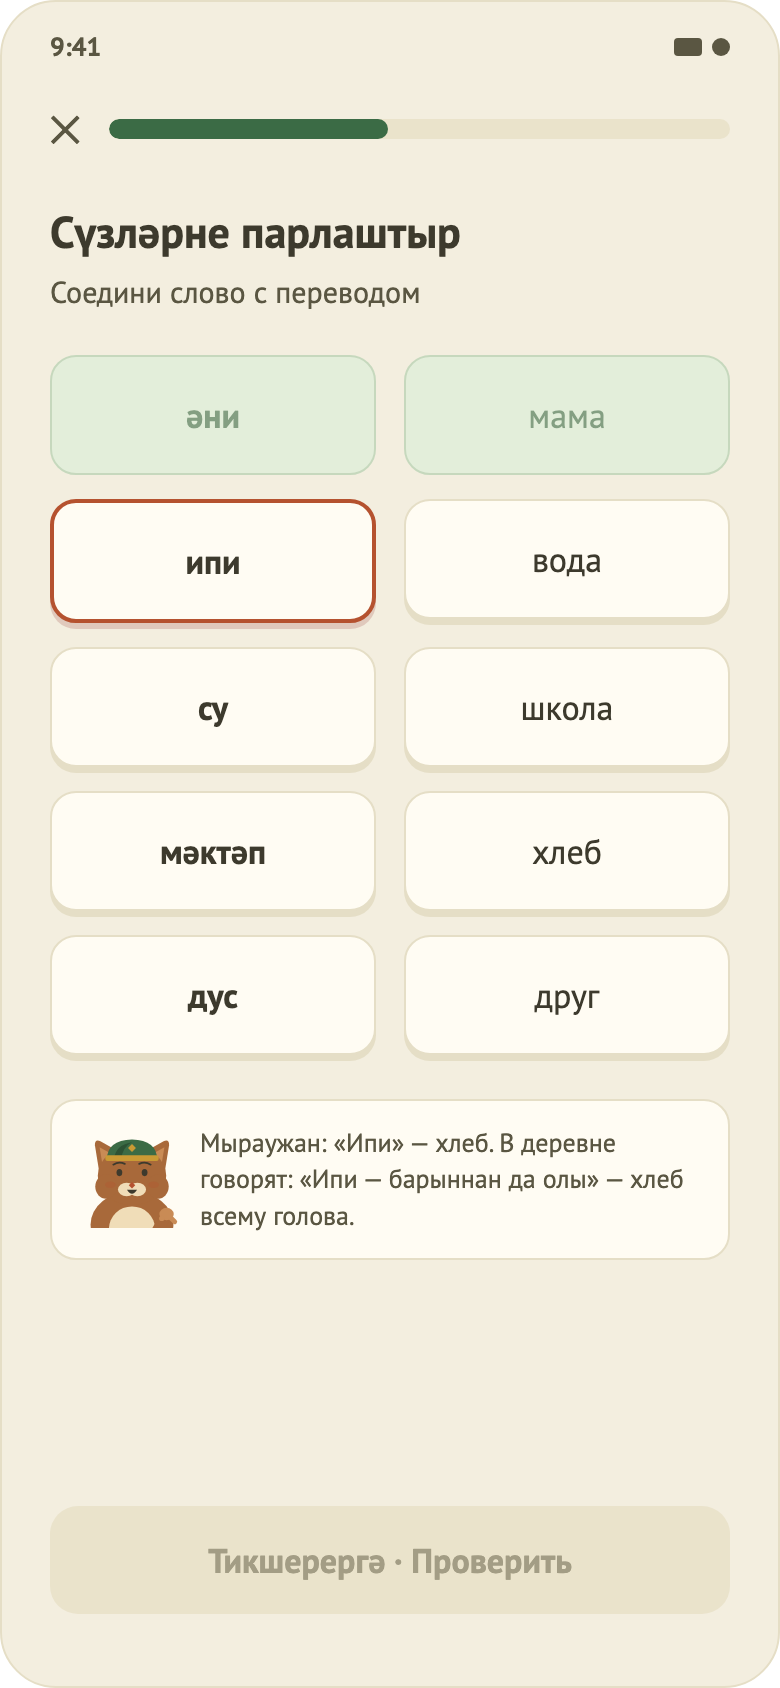
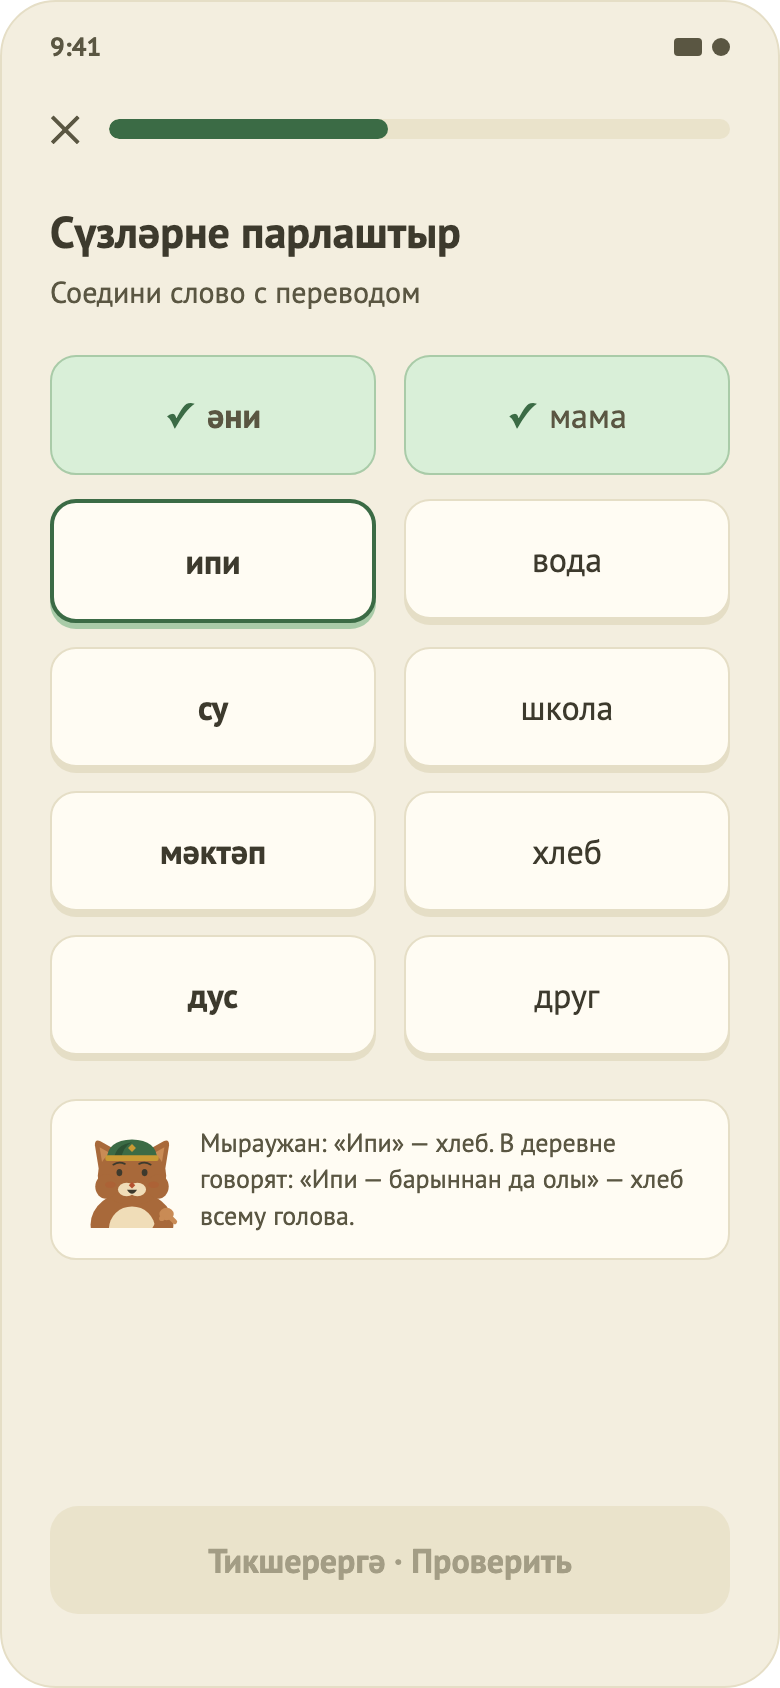
Separate selection from error: green selected state, matched tiles with check mark

Changed region(s): [[0.0615, 0.2156, 0.4615, 0.3697], [0.6769, 0.2464, 0.8, 0.2773], [0.4308, 0.3081, 0.4923, 0.3697]]

diff --git a/shared/src/commonMain/kotlin/ru/tatarcha/tatlearn/core/designsystem/component/exercise/AnswerOption.kt b/shared/src/commonMain/kotlin/ru/tatarcha/tatlearn/core/designsystem/component/exercise/AnswerOption.kt
@@ -14,34 +14,36 @@ import androidx.compose.material3.Text
 import androidx.compose.runtime.Composable
 import androidx.compose.ui.Alignment
 import androidx.compose.ui.Modifier
-import androidx.compose.ui.draw.alpha
 import androidx.compose.ui.draw.clip
 import androidx.compose.ui.semantics.Role
 import androidx.compose.ui.unit.Dp
 import androidx.compose.ui.unit.dp
+import org.jetbrains.compose.resources.stringResource
 import ru.tatarcha.tatlearn.core.designsystem.component.solidShadow
 import ru.tatarcha.tatlearn.core.designsystem.theme.TamyrSizes
 import ru.tatarcha.tatlearn.core.designsystem.theme.TamyrTheme
+import tatlearn.shared.generated.resources.Res
+import tatlearn.shared.generated.resources.answer_mark_matched
+import tatlearn.shared.generated.resources.answer_mark_wrong
 
 enum class AnswerOptionState {
     Neutral,
 
-    /** Выбран, ещё не проверен. */
+    /** Выбран, ещё не проверен: рамка primary на белом (терракота зарезервирована за ошибкой). */
     Selected,
 
     /** Проверен и верный. */
     Correct,
 
-    /** Проверен и неверный. TODO(design): нет в макете; терракотовый вариант Correct. */
+    /** Проверен и неверный: терракотовая рамка и значок ✕, чтобы ошибка читалась не только цветом. TODO(design): нет в макете. */
     Wrong,
 
-    /** Готовая пара в сопоставлении: приглушённый зелёный. */
+    /** Готовая пара в сопоставлении: светло-зелёная плитка с галочкой, текст на полном контрасте. */
     Matched,
 }
 
 private val BadgeSize = 22.dp
 private val DefaultHeight = 56.dp
-private const val MATCHED_ALPHA = 0.6f
 
 /** Выбираемая строка/плитка ответа в квизе, аудировании и сопоставлении. */
 @Composable
@@ -64,8 +66,8 @@ fun AnswerOption(
         else -> colors.surface
     }
     val borderColor = when (state) {
-        AnswerOptionState.Selected, AnswerOptionState.Wrong -> colors.accent
-        AnswerOptionState.Correct -> colors.primary
+        AnswerOptionState.Wrong -> colors.accent
+        AnswerOptionState.Selected, AnswerOptionState.Correct -> colors.primary
         AnswerOptionState.Matched -> colors.successBorder
         AnswerOptionState.Neutral -> colors.border
     }
@@ -75,12 +77,13 @@ fun AnswerOption(
     }
     val shadow = when (state) {
         AnswerOptionState.Neutral -> colors.border
-        AnswerOptionState.Selected, AnswerOptionState.Wrong -> colors.accentSoftShadow
-        AnswerOptionState.Correct -> colors.successBorder
+        AnswerOptionState.Wrong -> colors.accentSoftShadow
+        AnswerOptionState.Selected, AnswerOptionState.Correct -> colors.successBorder
         AnswerOptionState.Matched -> null
     }
     val textColor = when (state) {
-        AnswerOptionState.Correct, AnswerOptionState.Matched -> colors.primary
+        AnswerOptionState.Correct -> colors.primary
+        AnswerOptionState.Matched -> colors.textSecondary
         else -> colors.textPrimary
     }
     val strong = bold || state == AnswerOptionState.Correct || state == AnswerOptionState.Selected
@@ -88,7 +91,6 @@ fun AnswerOption(
     Row(
         modifier
             .fillMaxWidth()
-            .then(if (state == AnswerOptionState.Matched) Modifier.alpha(MATCHED_ALPHA) else Modifier)
             .then(if (shadow != null) Modifier.solidShadow(shadow, TamyrSizes.buttonShadow, shape) else Modifier)
             .height(height)
             .clip(shape)
@@ -99,26 +101,49 @@ fun AnswerOption(
         horizontalArrangement = if (centered) Arrangement.Center else Arrangement.SpaceBetween,
         verticalAlignment = Alignment.CenterVertically,
     ) {
-        Text(
-            text,
-            style = if (strong) TamyrTheme.typography.body17Bold else TamyrTheme.typography.body17,
-            color = textColor,
-        )
+        Row(
+            horizontalArrangement = Arrangement.spacedBy(TamyrTheme.spacing.s),
+            verticalAlignment = Alignment.CenterVertically,
+        ) {
+            if (state == AnswerOptionState.Matched) {
+                Text(
+                    text = stringResource(Res.string.answer_mark_matched),
+                    style = TamyrTheme.typography.body17Bold,
+                    color = colors.primary,
+                )
+            }
+            if (state == AnswerOptionState.Wrong && badge == null) {
+                Text(
+                    text = stringResource(Res.string.answer_mark_wrong),
+                    style = TamyrTheme.typography.body17Bold,
+                    color = colors.accentText,
+                )
+            }
+            Text(
+                text = text,
+                style = if (strong) TamyrTheme.typography.body17Bold else TamyrTheme.typography.body17,
+                color = textColor,
+            )
+        }
         if (badge != null) {
-            val correct = state == AnswerOptionState.Correct
+            val filled = state == AnswerOptionState.Correct || state == AnswerOptionState.Wrong
             Box(
                 Modifier
                     .size(BadgeSize)
                     .clip(TamyrTheme.shapes.circle)
                     .then(
-                        if (correct) Modifier.background(colors.primary) else Modifier.border(TamyrSizes.borderThin, colors.border, TamyrTheme.shapes.circle),
+                        when (state) {
+                            AnswerOptionState.Correct -> Modifier.background(colors.primary)
+                            AnswerOptionState.Wrong -> Modifier.background(colors.accent)
+                            else -> Modifier.border(TamyrSizes.borderThin, colors.border, TamyrTheme.shapes.circle)
+                        },
                     ),
                 contentAlignment = Alignment.Center,
             ) {
                 Text(
-                    badge,
+                    text = if (state == AnswerOptionState.Wrong) stringResource(Res.string.answer_mark_wrong) else badge,
                     style = TamyrTheme.typography.caption13,
-                    color = if (correct) colors.onPrimary else colors.textSecondary,
+                    color = if (filled) colors.onPrimary else colors.textSecondary,
                 )
             }
         }

diff --git a/design/Tatar App Screens.dc.html b/design/Tatar App Screens.dc.html
@@ -123,7 +123,7 @@
         </div>
         <div style="padding:20px 24px;display:flex;flex-direction:column;gap:12px">
           <div style="height:56px;border-radius:13px;background:#FFFCF3;border:1px solid #E5DEC6;display:flex;align-items:center;padding:0 18px;font-size:17px;font-weight:700;box-shadow:0 3px 0 #E5DEC6">Рәхмәт</div>
-          <div style="height:56px;border-radius:13px;background:#FFFCF3;border:2px solid #B5522F;display:flex;align-items:center;padding:0 18px;font-size:17px;font-weight:700;box-shadow:0 3px 0 #E0C9BC">Рәхим ит</div>
+          <div style="height:56px;border-radius:13px;background:#FFFCF3;border:2px solid #3B6B45;display:flex;align-items:center;padding:0 18px;font-size:17px;font-weight:700;box-shadow:0 3px 0 #A9CBA8">Рәхим ит</div>
           <div style="height:56px;border-radius:13px;background:#FFFCF3;border:1px solid #E5DEC6;display:flex;align-items:center;padding:0 18px;font-size:17px;font-weight:700;box-shadow:0 3px 0 #E5DEC6">Исәнме</div>
         </div>
         <div style="margin-top:auto;padding:0 24px 36px">
@@ -441,9 +441,9 @@
           <div style="font-size:15px;color:#5A5642">Соедини слово с переводом</div>
         </div>
         <div style="padding:22px 24px;display:grid;grid-template-columns:1fr 1fr;gap:12px 14px">
-          <div style="height:58px;border-radius:13px;background:#D9EFD8;border:1px solid #A9CBA8;display:flex;align-items:center;justify-content:center;font-size:17px;font-weight:700;color:#3B6B45;opacity:.6">әни</div>
-          <div style="height:58px;border-radius:13px;background:#D9EFD8;border:1px solid #A9CBA8;display:flex;align-items:center;justify-content:center;font-size:17px;color:#3B6B45;opacity:.6">мама</div>
-          <div style="height:58px;border-radius:13px;background:#FFFCF3;border:2px solid #B5522F;display:flex;align-items:center;justify-content:center;font-size:17px;font-weight:700;box-shadow:0 3px 0 #E0C9BC">ипи</div>
+          <div style="height:58px;border-radius:13px;background:#D9EFD8;border:1px solid #A9CBA8;display:flex;align-items:center;justify-content:center;font-size:17px;font-weight:700;color:#5A5642"><span style="color:#3B6B45;margin-right:8px">✓</span>әни</div>
+          <div style="height:58px;border-radius:13px;background:#D9EFD8;border:1px solid #A9CBA8;display:flex;align-items:center;justify-content:center;font-size:17px;color:#5A5642"><span style="color:#3B6B45;font-weight:700;margin-right:8px">✓</span>мама</div>
+          <div style="height:58px;border-radius:13px;background:#FFFCF3;border:2px solid #3B6B45;display:flex;align-items:center;justify-content:center;font-size:17px;font-weight:700;box-shadow:0 3px 0 #A9CBA8">ипи</div>
           <div style="height:58px;border-radius:13px;background:#FFFCF3;border:1px solid #E5DEC6;display:flex;align-items:center;justify-content:center;font-size:17px;box-shadow:0 3px 0 #E5DEC6">вода</div>
           <div style="height:58px;border-radius:13px;background:#FFFCF3;border:1px solid #E5DEC6;display:flex;align-items:center;justify-content:center;font-size:17px;font-weight:700;box-shadow:0 3px 0 #E5DEC6">су</div>
           <div style="height:58px;border-radius:13px;background:#FFFCF3;border:1px solid #E5DEC6;display:flex;align-items:center;justify-content:center;font-size:17px;box-shadow:0 3px 0 #E5DEC6">школа</div>

diff --git a/.docs/tech/04-lesson-matching.md b/.docs/tech/04-lesson-matching.md
@@ -55,8 +55,8 @@
 ## Функционал (как работает сейчас)
 | Функция | Поведение |
 |---|---|
-| Выбор слова слева | Тап выделяет слово (`Selected`); повторный тап снимает выделение. Уже сопоставленные и во время вспышки ошибки не нажимаются. |
-| Выбор перевода справа | Работает только если слово слева выбрано. Верная пара → обе плитки `Matched` (приглушённо-зелёные), выделение снимается. Неверная → плитки на 700 мс подсвечиваются красным, счётчик ошибок шага +1. |
+| Выбор слова слева | Тап выделяет слово (`Selected`: рамка и тень primary на белом, не терракотовая); повторный тап снимает выделение. Уже сопоставленные и во время вспышки ошибки не нажимаются. |
+| Выбор перевода справа | Работает только если слово слева выбрано. Верная пара → обе плитки `Matched` (светло-зелёные с галочкой ✓, без прозрачности), выделение снимается. Неверная → плитки на 700 мс подсвечиваются красным, счётчик ошибок шага +1. |
 | Завершение шага | Когда сопоставлены все пары: шаг сразу засчитывается и открывается панель «Верно». Шаг считается верным (+XP) только если за него **не было ни одной ошибки**; иначе шаг попадает в «ошибки», XP 0. |
 | Подсказка маскота | При выбранном татарском слове, для которого есть `notes[слово]`, появляется карточка (в данных: «ипи» — «Ипи — барыннан да олы…»). Картинки маскота нет (`TODO(design)`). |
 | Порядок справа | Детерминированный shuffle от содержимого пар (не меняется при перерисовке и пересоздании процесса); гарантированно не совпадает с левой колонкой. |

diff --git a/.docs/04-lesson-matching.md b/.docs/04-lesson-matching.md
@@ -50,9 +50,9 @@
 Заголовок «Сүзләрне парлаштыр», подпись «Соедини слово с переводом». Две колонки по 5 плиток: слева татарские слова, справа переводы в перемешанном порядке (порядок всегда одинаков и не совпадает с левым). Под плитками — подсказка маскота, если она есть для выбранного слова.
 
 ## Поведение
-- **Выбор слова слева:** плитка выделяется; повторное нажатие снимает выделение. Уже сопоставленные плитки недоступны.
+- **Выбор слова слева:** плитка выделяется зелёной рамкой (терракота зарезервирована за ошибкой); повторное нажатие снимает выделение. Уже сопоставленные плитки недоступны.
 - **Выбор перевода справа:** работает, только если слово слева выбрано.
-  - Верная пара — обе плитки становятся приглушённо-зелёными.
+  - Верная пара — обе плитки становятся светло-зелёными с галочкой, текст остаётся читаемым.
   - Неверная — обе плитки на 0,7 с краснеют, число ошибок шага растёт.
 - **Завершение шага:** когда все пары найдены, шаг засчитывается сразу и показывается панель «Верно». Шаг считается верным (с XP) только если за него **не было ни одной ошибки**; иначе он попадает в ошибки, XP 0.
 - **Подсказка маскота:** для некоторых слов («ипи») при выборе появляется пояснение. Картинки маскота нет.

diff --git a/.docs/tech/05-lesson-quiz.md b/.docs/tech/05-lesson-quiz.md
@@ -8,7 +8,7 @@
 Показать татарское слово и выбрать правильный русский перевод из вариантов.
 
 ## Элементы UI
-1. Тег «Яңа сүз · новое слово» (терракотовый) — только если `isNewWord = true`.
+1. Тег «Яңа сүз · новое слово» (терракотовый, цвет текста `accentText`) — только если `isNewWord = true`.
 2. Заголовок «Как переводится это слово?».
 3. Карточка слова: круглая кнопка воспроизведения, слово крупно, транскрипция (если есть).
 4. Список вариантов ответа; у каждого бейдж с номером 1, 2, 3…
